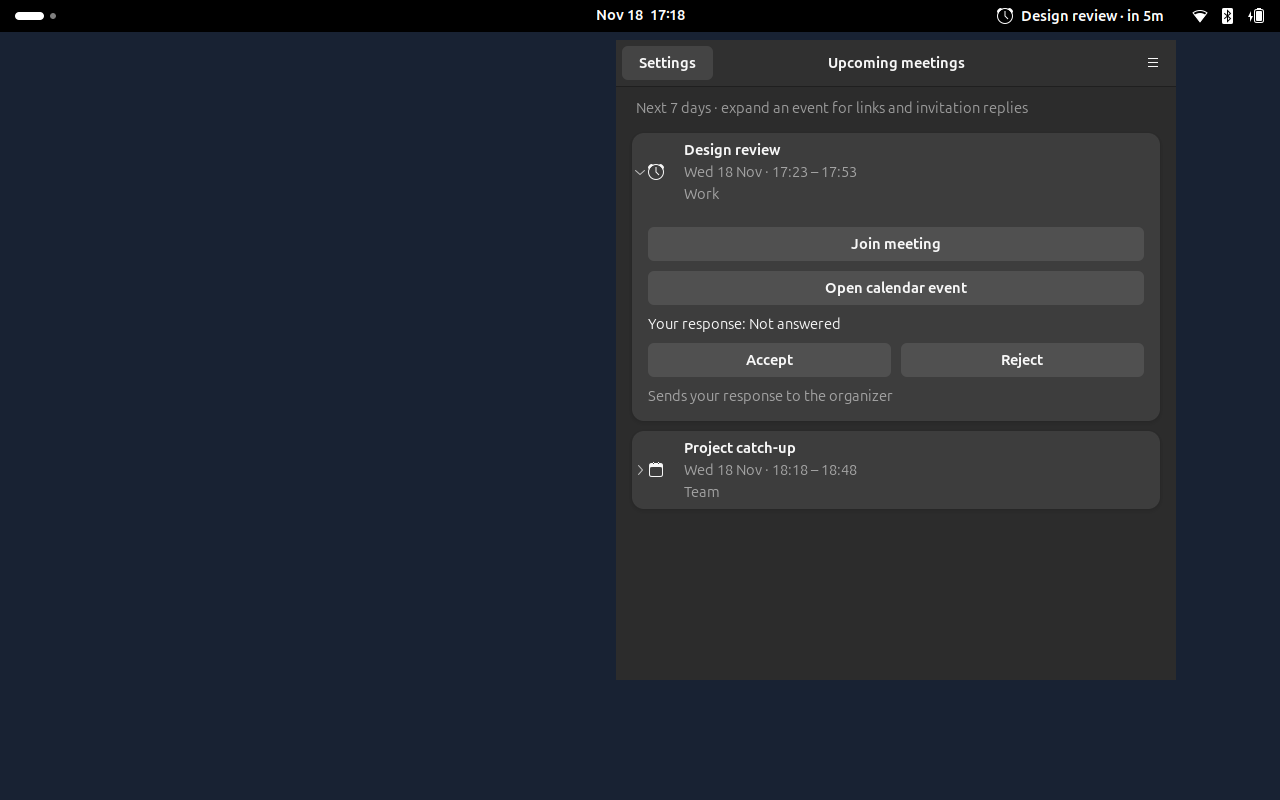
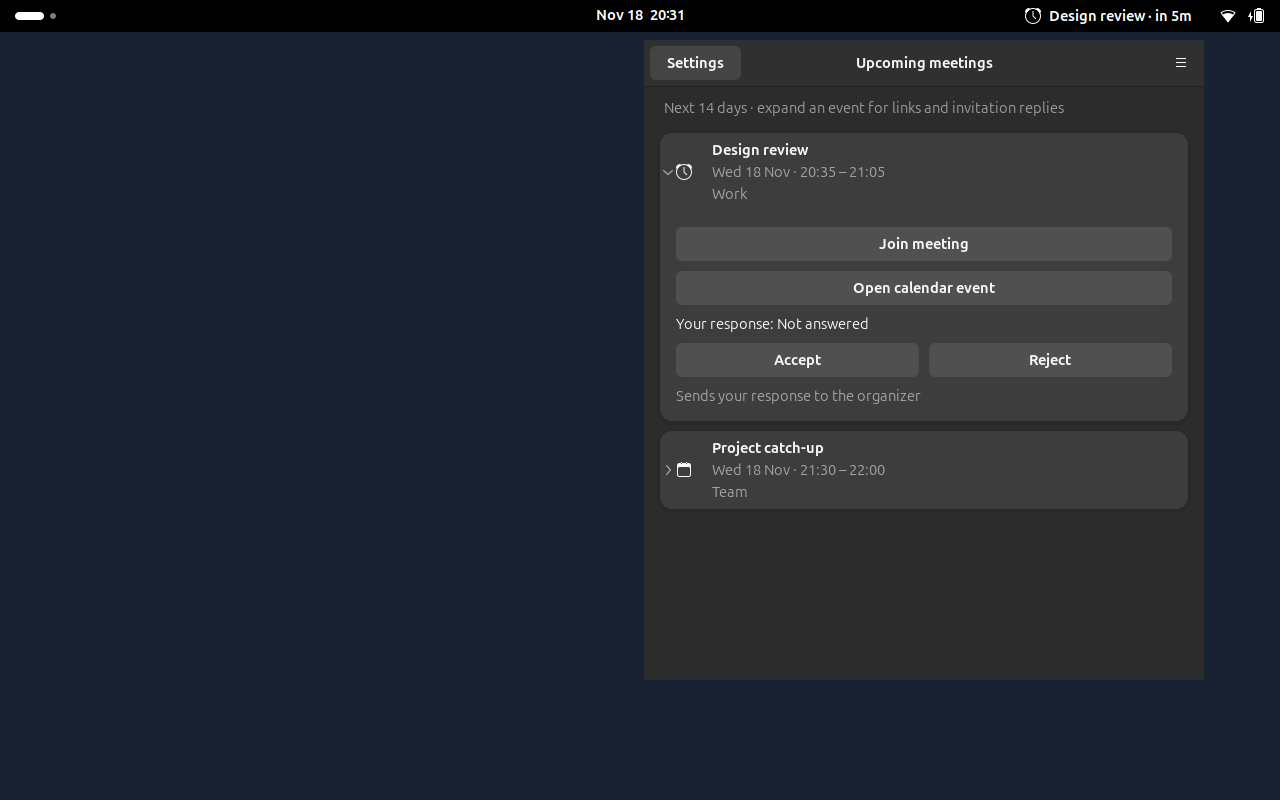
Show compact countdowns and upcoming meetings within two weeks

diff --git a/tests/test_app_logic.py b/tests/test_app_logic.py
@@ -3,7 +3,7 @@ from pathlib import Path
 import tempfile
 import time
 import unittest
-from app_logic import (Event, due_reminders, meeting_status, normalize_events, panel_state,
+from app_logic import (Event, LOOKAHEAD_SECONDS, format_duration, due_reminders, meeting_status, normalize_events, panel_state,
                        safe_url, timestamp, visible_events)
 from companion_runtime import HelperJob, SeenStore
 from gi.repository import GLib
@@ -41,6 +41,24 @@ class SchedulingTests(unittest.TestCase):
         self.assertEqual(panel_state(events, NOW, 5)['label'], 'Live · now')
         self.assertEqual(panel_state([], NOW, 5, error='offline')['icon'], 'dialog-warning-symbolic')
         self.assertFalse(panel_state(events, NOW, 5, running=False)['visible'])
+
+    def test_compact_countdowns_and_unit_boundaries(self):
+        for seconds, expected in [(1, '1m'), (45 * 60, '45m'), (3599, '1h'),
+                (3600, '1h'), (2 * 3600 + 15 * 60, '2h 15m'), (1172 * 60, '19h 32m'),
+                (86400 - 1, '1d'), (86400, '1d'), (86400 + 3 * 3600, '1d 3h'),
+                (7 * 86400, '1w'), (9 * 86400 + 3600, '1w 2d'), (14 * 86400, '2w')]:
+            with self.subTest(seconds=seconds):
+                self.assertEqual(format_duration(seconds), expected)
+        event = Event('tomorrow', 'Planning', NOW + 1172 * 60, NOW + 1172 * 60 + 1800)
+        self.assertEqual(panel_state([event], NOW, 5)['label'], 'Planning · in 19h 32m')
+
+    def test_two_week_window_includes_current_and_second_week_events(self):
+        events = [Event('ongoing', 'Ongoing', NOW - 60, NOW + 60),
+                  Event('next-week', 'Next week', NOW + 9 * 86400, NOW + 9 * 86400 + 1800),
+                  Event('last-minute', 'Last minute', NOW + LOOKAHEAD_SECONDS - 60, NOW + LOOKAHEAD_SECONDS + 1800),
+                  Event('outside', 'Outside', NOW + LOOKAHEAD_SECONDS, NOW + LOOKAHEAD_SECONDS + 1800)]
+        self.assertEqual([event.id for event in visible_events(events, NOW)],
+                         ['ongoing', 'next-week', 'last-minute'])
 
     def test_reminder_boundary_deduplication_resume_and_disabled_setting(self):
         event = Event('next', 'Next', NOW + 300, NOW + 600)

diff --git a/app_logic.py b/app_logic.py
@@ -4,6 +4,9 @@ from datetime import datetime
 import math
 from urllib.parse import urlsplit
 
+LOOKAHEAD_DAYS = 14
+LOOKAHEAD_SECONDS = LOOKAHEAD_DAYS * 86400
+
 ICONS = {'current': 'media-record-symbolic', 'soon': 'alarm-symbolic', 'upcoming': 'x-office-calendar-symbolic'}
 
 
@@ -76,7 +79,7 @@ def normalize_events(items):
 
 
 def visible_events(events, now):
-    return [event for event in events if event.end > now]
+    return [event for event in events if event.end > now and event.start < now + LOOKAHEAD_SECONDS]
 
 
 def meeting_status(event, now, minutes):
@@ -89,12 +92,24 @@ def due_reminders(events, now, minutes, seen):
     return [event for event in events if 0 < event.start - now <= minutes * 60 and event.id not in seen]
 
 
+def format_duration(seconds):
+    """Show the two largest adjacent units, rounding positive durations up to a minute."""
+    minutes = max(0, math.ceil(seconds / 60))
+    for size, suffix, next_size, next_suffix in [(10080, 'w', 1440, 'd'),
+            (1440, 'd', 60, 'h'), (60, 'h', 1, 'm')]:
+        if minutes >= size:
+            whole, remainder = divmod(minutes, size)
+            smaller = remainder // next_size
+            return f'{whole}{suffix}' + (f' {smaller}{next_suffix}' if smaller else '')
+    return f'{minutes}m'
+
+
 def panel_state(events, now, minutes, error='', running=True):
     events = visible_events(events, now)
     if events:
         event = events[0]
         status = meeting_status(event, now, minutes)
-        suffix = 'now' if status == 'current' else f'in {math.ceil((event.start - now) / 60)}m'
+        suffix = 'now' if status == 'current' else f'in {format_duration(event.start - now)}'
         title = event.title if len(event.title) <= 32 else event.title[:31] + '…'
         return {'label': f'{title} · {suffix}', 'icon': ICONS[status], 'visible': running}
     return {'label': 'Calendar · attention' if error else 'No upcoming meetings',

diff --git a/gnome_calendar.py b/gnome_calendar.py
@@ -7,6 +7,8 @@ from datetime import datetime, timezone
 from urllib.parse import urlsplit
 import sys
 
+from app_logic import LOOKAHEAD_DAYS
+
 DEPENDENCIES = ('Install the GNOME calendar integration: sudo apt install python3-gi '
                 'gir1.2-ecal-2.0 gir1.2-edataserver-1.2 gir1.2-goa-1.0')
 
@@ -174,7 +176,7 @@ def read_events(calendars, ecal, eds, ical, now=None):
                 return True
             # Surface backend/query errors before ECal's void recurrence API.
             begin = datetime.fromtimestamp(now, timezone.utc).strftime('%Y%m%dT%H%M%SZ')
-            finish = datetime.fromtimestamp(now + 7 * 86400, timezone.utc).strftime('%Y%m%dT%H%M%SZ')
+            finish = datetime.fromtimestamp(now + LOOKAHEAD_DAYS * 86400, timezone.utc).strftime('%Y%m%dT%H%M%SZ')
             ok, objects = client.get_object_list_sync(
                 f'(occur-in-time-range? (make-time "{begin}") (make-time "{finish}"))', None)
             if not ok:
@@ -182,7 +184,7 @@ def read_events(calendars, ecal, eds, ical, now=None):
             # Fetch each UID with its full exception set: range queries can omit
             # declined exceptions while returning their recurring master.
             for uid in {comp.get_uid() for comp in objects if comp.get_uid()}:
-                client.generate_instances_for_uid_sync(uid, now, now + 7 * 86400, None, collect, None)
+                client.generate_instances_for_uid_sync(uid, now, now + LOOKAHEAD_DAYS * 86400, None, collect, None)
         except Exception:
             warnings.append(f"Could not read {info['name']} ({info['account']}). Check calendar access in GNOME Online Accounts.")
     unique = {(item['id'], item['start']['dateTime']): item for item in items}

diff --git a/tests/test_gnome_calendar.py b/tests/test_gnome_calendar.py
@@ -39,6 +39,24 @@ class DiscoveryTests(unittest.TestCase):
         self.assertEqual(len(gnome.selected_calendars(calendars, ['work', 'home'])), 2)
         self.assertEqual(gnome.selected_calendars(calendars, []), [])
 
+    def test_gnome_query_and_recurrence_expansion_use_two_weeks(self):
+        client = Mock()
+        obj = Mock()
+        obj.get_uid.return_value = 'invite'
+        client.get_object_list_sync.return_value = (True, [obj])
+        client.get_backend_property_sync.return_value = (False, '')
+        ecal = SimpleNamespace(Client=Mock(), ClientSourceType=SimpleNamespace(EVENTS=0))
+        ecal.Client.connect_sync.return_value = client
+        ical = SimpleNamespace(Timezone=Mock())
+        now = 1795003200  # 2026-11-18 12:00 UTC
+        info = dict(id='work', name='Work', account='me@example.com', needsAttention=False)
+        items, warnings = gnome.read_events([(Mock(), info)], ecal, Mock(), ical, now=now)
+        self.assertEqual((items, warnings), ([], []))
+        client.generate_instances_for_uid_sync.assert_called_once()
+        args = client.generate_instances_for_uid_sync.call_args.args
+        self.assertEqual(args[:3], ('invite', now, now + 14 * 86400))
+        self.assertIn('20261202T120000Z', client.get_object_list_sync.call_args.args[0])
+
 
 try:
     _, _, _, ICAL = gnome.load_libraries()

diff --git a/companion_ui.py b/companion_ui.py
@@ -6,7 +6,7 @@ import gi
 gi.require_version('Gtk', '4.0')
 gi.require_version('Adw', '1')
 from gi.repository import Adw, Gdk, GLib, Gtk
-from app_logic import ICONS, meeting_status, safe_url, visible_events
+from app_logic import LOOKAHEAD_DAYS, ICONS, meeting_status, safe_url, visible_events
 from companion_runtime import run_helper
 
 TITLES = {'agenda': 'Cal Bar — Meetings', 'reminder': 'Cal Bar — Reminder', 'dimmer': 'Cal Bar — Dimmer'}
@@ -100,7 +100,7 @@ class AgendaWindow(Gtk.ApplicationWindow):
             next_child = child.get_next_sibling()
             self.list.remove(child)
             child = next_child
-        self.message.set_text(self.app.error or 'Next 7 days · expand an event for links and invitation replies')
+        self.message.set_text(self.app.error or f'Next {LOOKAHEAD_DAYS} days · expand an event for links and invitation replies')
         events = visible_events(self.app.events, time.time())
         if not events:
             self.list.append(Gtk.Label(label='No timed meetings scheduled', margin_top=32, margin_bottom=32))

diff --git a/tests/test_google_calendar.py b/tests/test_google_calendar.py
@@ -1,4 +1,6 @@
 import unittest
+from datetime import datetime
+from urllib.parse import parse_qs, urlsplit
 from unittest.mock import patch
 import google_calendar as google
 
@@ -28,6 +30,10 @@ class CalendarTests(unittest.TestCase):
             self.assertEqual(google.list_events('token', 'shared@example.com'), [{'id': 'a'}, {'id': 'b'}])
             self.assertIn('shared%40example.com/events?', request.call_args_list[0].args[0])
             self.assertIn('pageToken=page2', request.call_args_list[1].args[0])
+            query = parse_qs(urlsplit(request.call_args_list[0].args[0]).query)
+            start = datetime.fromisoformat(query['timeMin'][0])
+            end = datetime.fromisoformat(query['timeMax'][0])
+            self.assertEqual((end - start).total_seconds(), 14 * 86400)
 
     def test_disconnected_never_requests_google(self):
         with patch.object(google, 'request_json') as request:

diff --git a/google_calendar.py b/google_calendar.py
@@ -14,6 +14,8 @@ from urllib.error import HTTPError, URLError
 from urllib.parse import parse_qs, quote, urlencode, urlsplit
 from urllib.request import Request, urlopen
 
+from app_logic import LOOKAHEAD_DAYS
+
 TOKEN_URL = 'https://oauth2.googleapis.com/token'
 SCOPE = 'https://www.googleapis.com/auth/calendar.events.readonly'
 
@@ -116,7 +118,7 @@ def access_token(client, keyring):
 
 def list_events(token, calendar_id):
     now = datetime.now(timezone.utc)
-    params = {'timeMin': now.isoformat(), 'timeMax': (now + timedelta(days=7)).isoformat(),
+    params = {'timeMin': now.isoformat(), 'timeMax': (now + timedelta(days=LOOKAHEAD_DAYS)).isoformat(),
               'singleEvents': 'true', 'orderBy': 'startTime', 'maxResults': 250}
     items = []
     while True:

diff --git a/README.md b/README.md
@@ -57,7 +57,7 @@ cal-bar status             # Inspect the app version and bridge status
 
 ## Meeting list and invitation actions
 
-The top bar shows the current meeting, or the next meeting with its countdown. 
+The top bar shows the current meeting, or the next meeting within two weeks. Countdowns use compact labels like `45m`, `2h 15m`, `1d 3h`, and `1w 2d`.
 Expand an event to reveal:
 
 - **Join meeting**, detecting Google Meet, Zoom, or Teams conference links.
